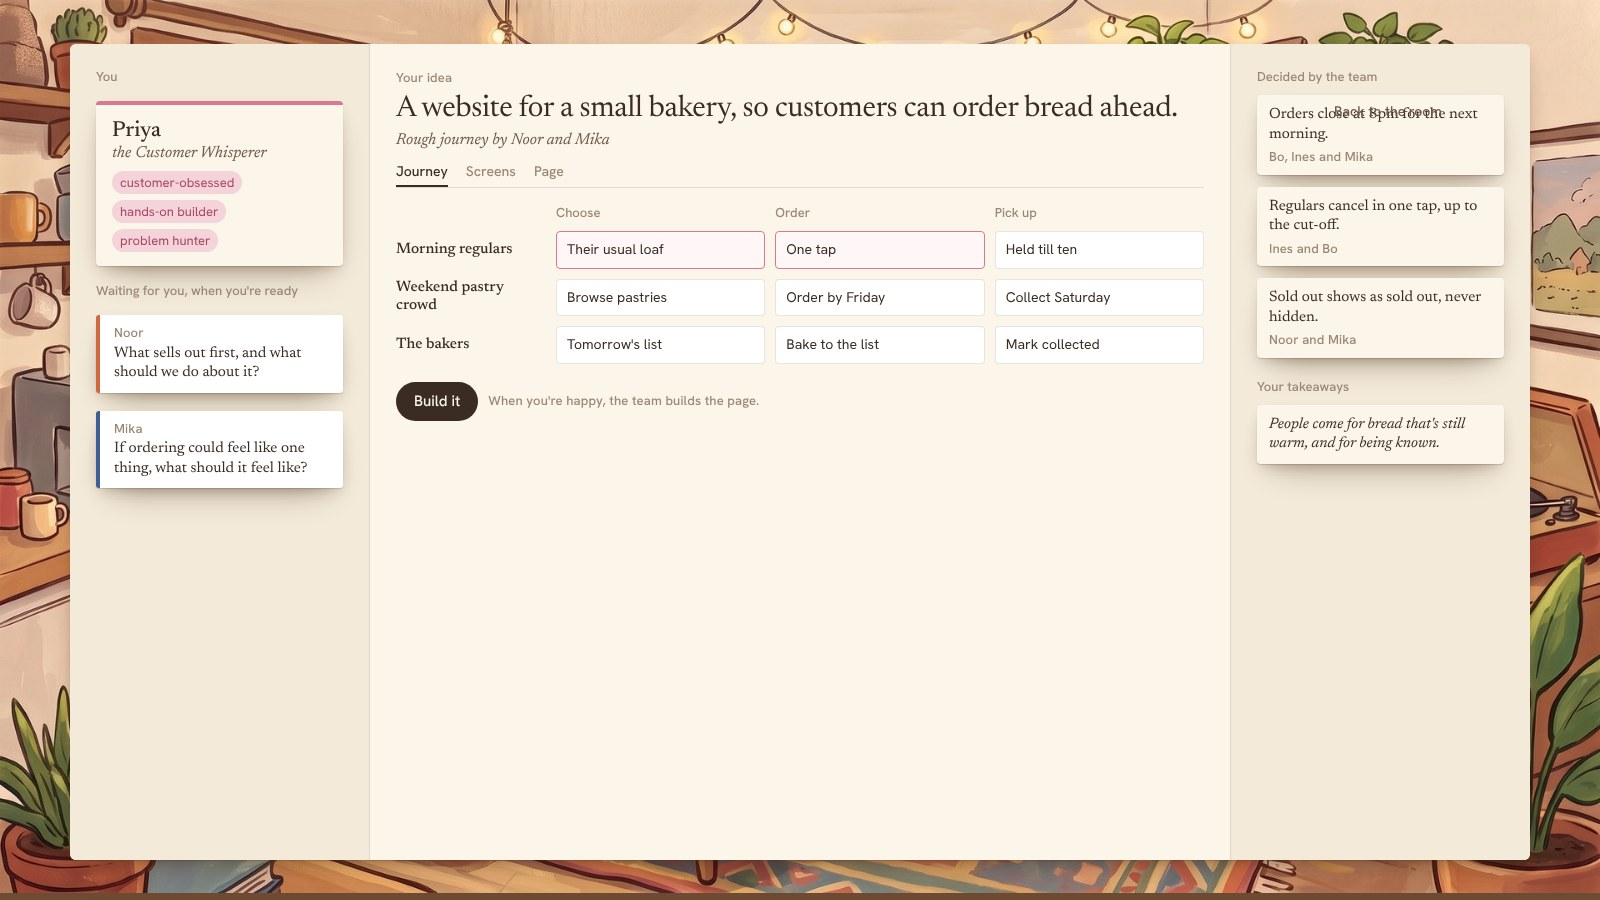
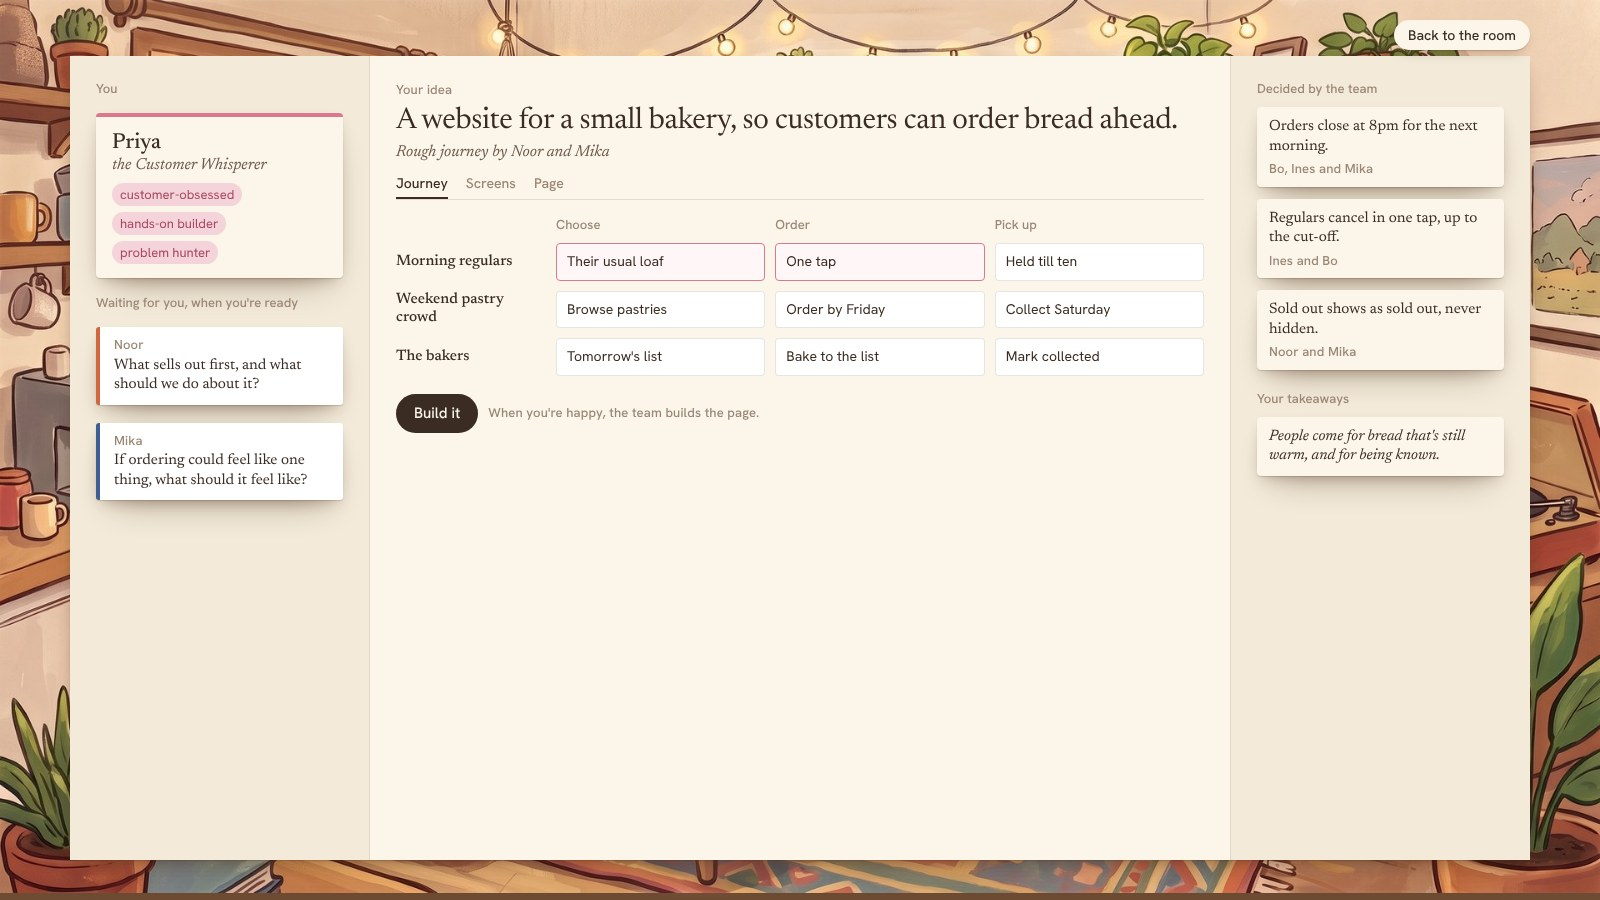
Her seat: workspace close button clear of the cards

Changed region(s): [[0.0312, 0.0, 0.9688, 0.56], [0.0625, 0.0933, 0.2188, 0.5911], [0.625, 0.2178, 0.75, 0.4044]]

diff --git a/public/looks/comps/her-seat.html b/public/looks/comps/her-seat.html
@@ -81,7 +81,7 @@ html, body { margin: 0; background: #2B1F17; }
 .youtag { position: absolute; left: 662px; top: 520px; padding: 5px 10px; border-radius: 999px; background: var(--her); color: #fff; font: 500 13px/1 var(--sans); box-shadow: var(--shadow); }
 
 /* ---------- the workspace she opens (same for every option) ---------- */
-.ws { position: absolute; left: 70px; top: 44px; right: 70px; bottom: 40px; display: grid; grid-template-columns: 300px 1fr 300px; gap: 0; border-radius: 6px; overflow: hidden; }
+.ws { overflow: visible !important; position: absolute; left: 70px; top: 56px; right: 70px; bottom: 40px; display: grid; grid-template-columns: 300px 1fr 300px; gap: 0; border-radius: 6px; overflow: hidden; }
 .ws > div { padding: 26px 26px; }
 .ws .left { background: var(--paper-2); border-right: 1px solid rgba(58,44,34,.1); display: flex; flex-direction: column; gap: 18px; }
 .ws .right { background: var(--paper-2); border-left: 1px solid rgba(58,44,34,.1); display: flex; flex-direction: column; gap: 12px; }
@@ -103,7 +103,8 @@ html, body { margin: 0; background: #2B1F17; }
 .dec { background: var(--paper); padding: 10px 12px; border-radius: 4px; box-shadow: var(--shadow); font: 400 15px/1.3 var(--serif); }
 .dec .label { display: block; margin-top: 5px; }
 .foot { margin-top: 18px; display: flex; gap: 10px; align-items: center; }
-.close { position: absolute; right: 88px; top: 60px; font: 500 14px/1 var(--sans); color: var(--ink-2); }
+.close { position: absolute; right: 70px; top: 8px; padding: 8px 14px; border-radius: 999px; background: var(--paper); box-shadow: var(--shadow); font: 500 14px/1 var(--sans); color: var(--ink); }
+.ws .close { top: -36px; right: 0; }
 </style>
 </head>
 <body>
